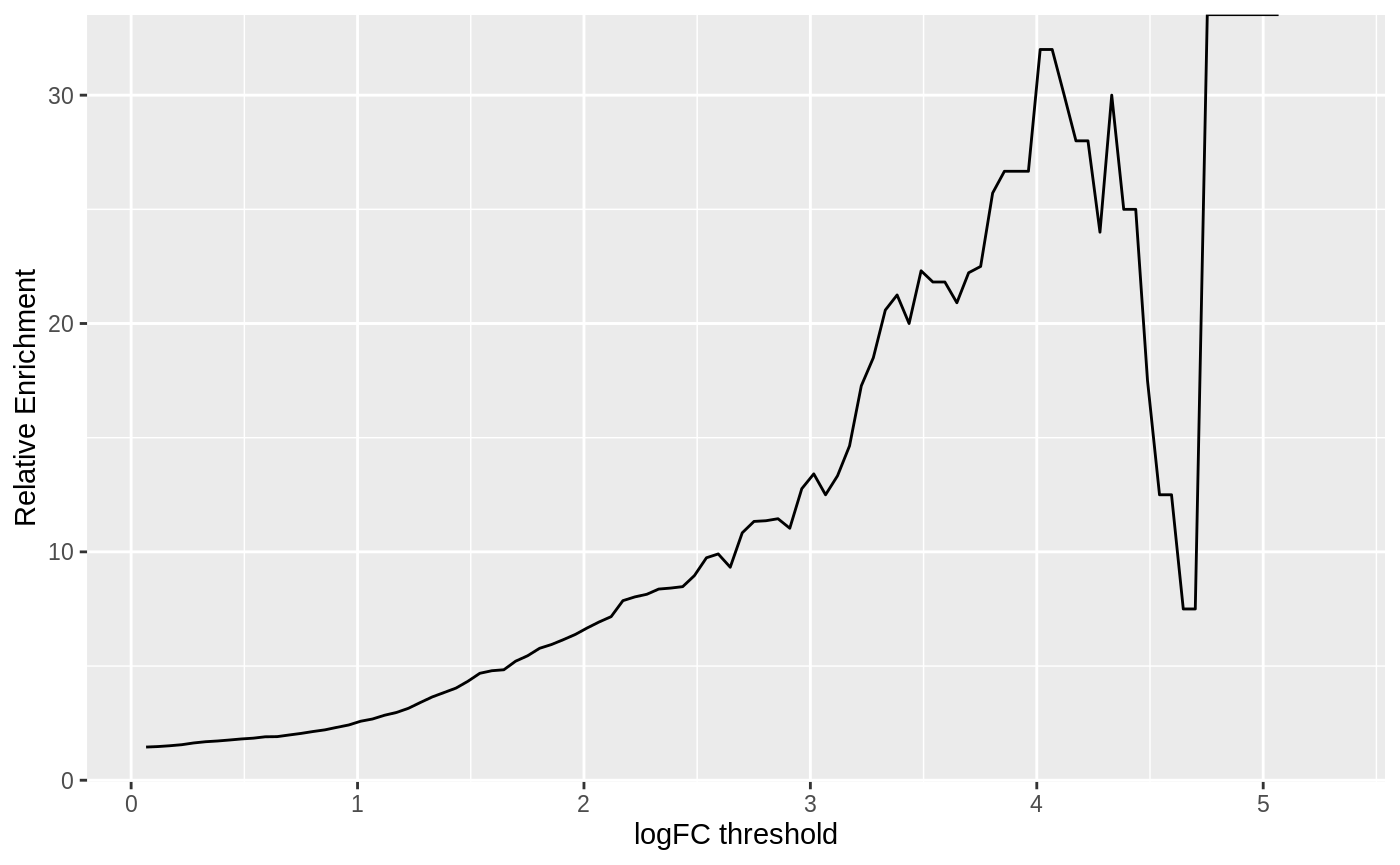
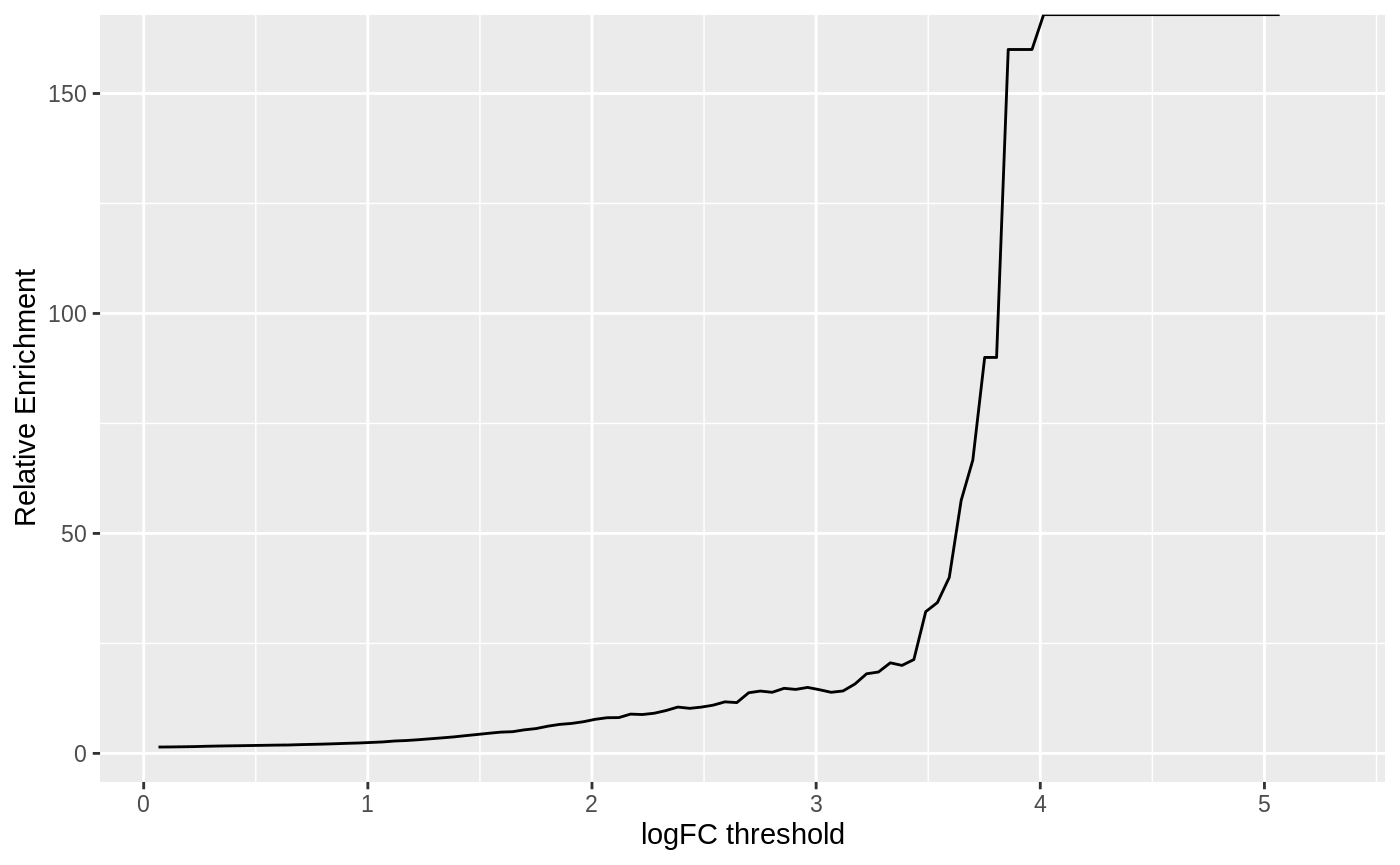
Built site for fluentGenomics: 0.0.1@a639b99

diff --git a/articles/fluentGenomics.html b/articles/fluentGenomics.html
@@ -196,7 +196,7 @@ into R/Bioconductor, such that the genomic ranges are automatically attached to 
 use a figure -->
 <p>Because <code>tximeta</code> knows the correct reference transcriptome, we can ask <code>tximeta</code> to summarize the transcript-level data to the gene level using the methods of <span class="citation">Soneson, Love, and Robinson (2015)</span>.</p>
 <div class="sourceCode" id="cb20"><pre class="sourceCode r"><code class="sourceCode r"><a class="sourceLine" id="cb20-1" data-line-number="1">gse &lt;-<span class="st"> </span><span class="kw">summarizeToGene</span>(se)</a></code></pre></div>
-<pre><code>## loading existing TxDb created: 2019-12-04 04:46:03</code></pre>
+<pre><code>## loading existing TxDb created: 2019-12-04 05:40:52</code></pre>
 <pre><code>## Loading required package: GenomicFeatures</code></pre>
 <pre><code>## Loading required package: AnnotationDbi</code></pre>
 <pre><code>## 
@@ -440,30 +440,30 @@ use a figure -->
 <pre><code>## GRanges object with 749 ranges and 3 metadata columns:
 ##         seqnames              ranges strand |            gene_id
 ##            &lt;Rle&gt;           &lt;IRanges&gt;  &lt;Rle&gt; |        &lt;character&gt;
-##     [1]    chr14   50052857-50053569      + |  ENSG00000243038.1
-##     [2]     chr2   53532672-53787610      - | ENSG00000115239.21
-##     [3]    chr21   14818843-15014430      - |  ENSG00000235609.7
-##     [4]    chr19   35523367-35528351      - | ENSG00000189001.10
-##     [5]     chr6 118894220-118909167      + |  ENSG00000111875.7
+##     [1]    chr16   89088375-89164121      + | ENSG00000176715.16
+##     [2]    chr11   86283927-86284668      + |  ENSG00000254783.1
+##     [3]     chr6   31727038-31730617      - |  ENSG00000213722.8
+##     [4]     chrX   37571569-37684463      + | ENSG00000147036.11
+##     [5]     chr8   28767661-28890242      - | ENSG00000104299.14
 ##     ...      ...                 ...    ... .                ...
-##   [745]    chr19   43596392-43601157      + | ENSG00000124444.15
-##   [746]     chr4 102418602-102450010      - |  ENSG00000248161.5
-##   [747]    chr10   14838160-14847018      + |  ENSG00000284024.2
-##   [748]    chr13   79311824-79406477      - | ENSG00000139746.15
-##   [749]     chr5 157785743-157859175      - | ENSG00000113282.13
+##   [745]    chr19   42485076-42485714      - |  ENSG00000269374.1
+##   [746]     chr2   67397319-67412089      + |  ENSG00000143971.8
+##   [747]     chr5 112976702-113020970      + | ENSG00000172795.15
+##   [748]    chr19   34733298-34733837      - |  ENSG00000274104.1
+##   [749]    chr20     1888128-1894374      - |  ENSG00000276649.1
 ##                   de_log2FC           de_padj
 ##                   &lt;numeric&gt;         &lt;numeric&gt;
-##     [1]  -0.632774880753761 0.521975564684806
-##     [2]  -0.109609539126582 0.631102135021299
-##     [3]  0.0134619385559843 0.961676443773232
-##     [4]   0.216056507711512 0.899561389140532
-##     [5] -0.0836501084428537 0.727823630402494
+##     [1]  0.0883185688056134 0.677817325036758
+##     [2]  -0.278999094033877 0.447388026154912
+##     [3]   0.103078047575482 0.715157647224577
+##     [4]    0.70789046813369 0.220161260800496
+##     [5]  -0.108073100475036  0.50065085259782
 ##     ...                 ...               ...
-##   [745]   0.112212448398344 0.656033947986787
-##   [746]   -1.01536218932665 0.217067983557905
-##   [747]  -0.159042927714654 0.454882627136078
-##   [748] -0.0177710974533084 0.899135719717928
-##   [749]  -0.174462240195644 0.317691044686094
+##   [745]   0.277732027627693 0.430776782760329
+##   [746]  -0.110627350026637 0.531931894373728
+##   [747] -0.0573027373516692 0.860974061475304
+##   [748]   0.472112695712188  0.46099083697002
+##   [749] 0.00522089003416244 0.991571521790647
 ##   -------
 ##   seqinfo: 25 sequences (1 circular) from an unspecified genome; no seqlengths</code></pre>
 <p>We can scale this up to create many samples via replicate:</p>
@@ -490,24 +490,24 @@ use a figure -->
 ##      [4]     chr7 150800403-150805120      + |  ENSG00000002933.8
 ##      [5]     chr4   15778275-15853230      + | ENSG00000004468.12
 ##      ...      ...                 ...    ... .                ...
-##   [8235]     chr9 124517275-124771310      - | ENSG00000148200.16
-##   [8236]    chr11 108665025-108940930      + | ENSG00000178105.10
-##   [8237]    chr11     4482646-4493497      + |  ENSG00000196778.3
-##   [8238]     chr7   30010587-30026684      - | ENSG00000106080.10
-##   [8239]    chr22   30576625-30607083      - | ENSG00000100029.17
-##                   de_log2FC              de_padj  resample   origin
-##                   &lt;numeric&gt;            &lt;numeric&gt; &lt;integer&gt; &lt;factor&gt;
-##      [1]   4.98711071929753 1.37057047788478e-13         0       de
-##      [2]   1.92721595380928  3.1747750713955e-05         0       de
-##      [3]    2.9337250105913 2.01310386948312e-11         0       de
-##      [4]   3.16721751137947 1.07359905687254e-08         0       de
-##      [5]   5.40894352968123 4.82904681779634e-18         0       de
-##      ...                ...                  ...       ...      ...
-##   [8235]  0.203655097445471    0.636863126522804        10   not_de
-##   [8236]  0.176356554905285    0.732636255238048        10   not_de
-##   [8237] -0.167709592678972    0.777871602890909        10   not_de
-##   [8238] -0.221471376097723    0.540008070198926        10   not_de
-##   [8239] 0.0754440554121932    0.816976317740198        10   not_de
+##   [8235]    chr16   55760566-55793960      + | ENSG00000228695.10
+##   [8236]     chr9 137007227-137028922      - | ENSG00000107331.16
+##   [8237]     chr9   35056064-35073249      - | ENSG00000165280.15
+##   [8238]    chr12   71663009-71680639      + |  ENSG00000173451.6
+##   [8239]    chr16     4346694-4348648      - |  ENSG00000280063.1
+##                    de_log2FC              de_padj  resample   origin
+##                    &lt;numeric&gt;            &lt;numeric&gt; &lt;integer&gt; &lt;factor&gt;
+##      [1]    4.98711071929753 1.37057047788478e-13         0       de
+##      [2]    1.92721595380928  3.1747750713955e-05         0       de
+##      [3]     2.9337250105913 2.01310386948312e-11         0       de
+##      [4]    3.16721751137947 1.07359905687254e-08         0       de
+##      [5]    5.40894352968123 4.82904681779634e-18         0       de
+##      ...                 ...                  ...       ...      ...
+##   [8235]   0.638702353140594    0.508402790416387        10   not_de
+##   [8236]   -0.15423728143851     0.72188384440227        10   not_de
+##   [8237] -0.0235305688770099    0.875814429612516        10   not_de
+##   [8238]   0.268789749902426    0.508130509835158        10   not_de
+##   [8239]  -0.177111977597586    0.728844923289341        10   not_de
 ##   -------
 ##   seqinfo: 25 sequences (1 circular) from an unspecified genome; no seqlengths</code></pre>
 <p>Now we would like to modify our gene ranges so their width is 10 kilobases on either side of their transcription start site (TSS). There are many ways one could do this but we prefer an approach via the anchoring methods in <em>plyranges</em>. Because there is a mutual dependence between the start, end, width and strand of a <em>GRanges</em> object, we define anchors to fix one of start and end, while modifying the width. As an example to extract just the TSS, we can anchor by the 5’ end of the range and modify the width of the range to equal 1.</p>
@@ -524,7 +524,7 @@ use a figure -->
 <div class="sourceCode" id="cb70"><pre class="sourceCode r"><code class="sourceCode r"><a class="sourceLine" id="cb70-1" data-line-number="1">overlap_genes &lt;-<span class="st"> </span>all_genes <span class="op">%&gt;%</span></a>
 <a class="sourceLine" id="cb70-2" data-line-number="2"><span class="st">  </span><span class="kw"><a href="https://rdrr.io/pkg/plyranges/man/overlap-joins.html">join_overlap_left</a></span>(da_peaks)</a>
 <a class="sourceLine" id="cb70-3" data-line-number="3">overlap_genes</a></code></pre></div>
-<pre><code>## GRanges object with 27490 ranges and 8 metadata columns:
+<pre><code>## GRanges object with 27633 ranges and 8 metadata columns:
 ##           seqnames              ranges strand |            gene_id
 ##              &lt;Rle&gt;           &lt;IRanges&gt;  &lt;Rle&gt; |        &lt;character&gt;
 ##       [1]     chr1 196641878-196661877      + | ENSG00000000971.15
@@ -533,24 +533,24 @@ use a figure -->
 ##       [4]     chr4   17567192-17587191      + | ENSG00000002549.12
 ##       [5]     chr4   17567192-17587191      + | ENSG00000002549.12
 ##       ...      ...                 ...    ... .                ...
-##   [27486]     chr7   30016684-30036683      - | ENSG00000106080.10
-##   [27487]     chr7   30016684-30036683      - | ENSG00000106080.10
-##   [27488]    chr22   30597083-30617082      - | ENSG00000100029.17
-##   [27489]    chr22   30597083-30617082      - | ENSG00000100029.17
-##   [27490]    chr22   30597083-30617082      - | ENSG00000100029.17
-##                    de_log2FC              de_padj  resample   origin
-##                    &lt;numeric&gt;            &lt;numeric&gt; &lt;integer&gt; &lt;factor&gt;
-##       [1]   4.98711071929753 1.37057047788478e-13         0       de
-##       [2]   1.92721595380928  3.1747750713955e-05         0       de
-##       [3]    2.9337250105913 2.01310386948312e-11         0       de
-##       [4]    2.9337250105913 2.01310386948312e-11         0       de
-##       [5]    2.9337250105913 2.01310386948312e-11         0       de
-##       ...                ...                  ...       ...      ...
-##   [27486] -0.221471376097723    0.540008070198926        10   not_de
-##   [27487] -0.221471376097723    0.540008070198926        10   not_de
-##   [27488] 0.0754440554121932    0.816976317740198        10   not_de
-##   [27489] 0.0754440554121932    0.816976317740198        10   not_de
-##   [27490] 0.0754440554121932    0.816976317740198        10   not_de
+##   [27629]     chr9   35063249-35083248      - | ENSG00000165280.15
+##   [27630]     chr9   35063249-35083248      - | ENSG00000165280.15
+##   [27631]    chr12   71653009-71673008      + |  ENSG00000173451.6
+##   [27632]    chr16     4338648-4358647      - |  ENSG00000280063.1
+##   [27633]    chr16     4338648-4358647      - |  ENSG00000280063.1
+##                     de_log2FC              de_padj  resample   origin
+##                     &lt;numeric&gt;            &lt;numeric&gt; &lt;integer&gt; &lt;factor&gt;
+##       [1]    4.98711071929753 1.37057047788478e-13         0       de
+##       [2]    1.92721595380928  3.1747750713955e-05         0       de
+##       [3]     2.9337250105913 2.01310386948312e-11         0       de
+##       [4]     2.9337250105913 2.01310386948312e-11         0       de
+##       [5]     2.9337250105913 2.01310386948312e-11         0       de
+##       ...                 ...                  ...       ...      ...
+##   [27629] -0.0235305688770099    0.875814429612516        10   not_de
+##   [27630] -0.0235305688770099    0.875814429612516        10   not_de
+##   [27631]   0.268789749902426    0.508130509835158        10   not_de
+##   [27632]  -0.177111977597586    0.728844923289341        10   not_de
+##   [27633]  -0.177111977597586    0.728844923289341        10   not_de
 ##                    peak_id          da_log2FC              da_padj
 ##                &lt;character&gt;          &lt;numeric&gt;            &lt;numeric&gt;
 ##       [1]  ATAC_peak_21236 -0.546582189082724 0.000115273676444232
@@ -559,11 +559,11 @@ use a figure -->
 ##       [4] ATAC_peak_193579 -0.281615137872819 7.99888515457195e-05
 ##       [5] ATAC_peak_193580  0.673705317951604 7.60042918890061e-15
 ##       ...              ...                ...                  ...
-##   [27486] ATAC_peak_246240  0.199453348339899   0.0010107103087861
-##   [27487] ATAC_peak_246244 -0.334370962296005  0.00603463380372217
-##   [27488] ATAC_peak_168647  0.700254164321891 2.44508432270003e-30
-##   [27489] ATAC_peak_168648   1.02287281935847 1.76720208303768e-30
-##   [27490] ATAC_peak_168649 -0.656303404614519  3.5269225221126e-12
+##   [27629] ATAC_peak_276402 -0.477548958919527 9.33639645508677e-07
+##   [27630] ATAC_peak_276403  0.119519949352842 0.000253900868283711
+##   [27631]             &lt;NA&gt;               &lt;NA&gt;                 &lt;NA&gt;
+##   [27632]  ATAC_peak_97466  -1.06568458075408 1.07944941285314e-08
+##   [27633]  ATAC_peak_97469  0.100885846933033  0.00400767112562884
 ##   -------
 ##   seqinfo: 25 sequences (1 circular) from an unspecified genome; no seqlengths</code></pre>
 <p>Now we can ask, how many DA peaks are near DE genes relative to “other” non-DE genes? A gene may appear more than once, since multiple peaks may overlap a single gene or because we have re-sampled the same gene more than once.</p>
@@ -593,14 +593,14 @@ use a figure -->
 ##     origin       any      lfc1      lfc2
 ##   &lt;factor&gt; &lt;numeric&gt; &lt;numeric&gt; &lt;numeric&gt;
 ## 1       de      3416      1097       234
-## 2   not_de    2351.9     427.2      35.3</code></pre>
+## 2   not_de    2367.7     440.7      30.6</code></pre>
 <p>We can see that the enrichment increases for larger LFC threshold:</p>
 <div class="sourceCode" id="cb76"><pre class="sourceCode r"><code class="sourceCode r"><a class="sourceLine" id="cb76-1" data-line-number="1">overlap_tab <span class="op">%&gt;%</span><span class="st"> </span></a>
 <a class="sourceLine" id="cb76-2" data-line-number="2"><span class="st">  </span><span class="kw"><a href="https://rdrr.io/r/base/as.data.frame.html">as.data.frame</a></span>() <span class="op">%&gt;%</span><span class="st"> </span></a>
 <a class="sourceLine" id="cb76-3" data-line-number="3"><span class="st">  </span><span class="kw"><a href="https://rdrr.io/pkg/plyranges/man/tidyverse-reexports.html">select</a></span>(<span class="op">-</span>origin) <span class="op">%&gt;%</span><span class="st"> </span></a>
 <a class="sourceLine" id="cb76-4" data-line-number="4"><span class="st">  </span><span class="kw"><a href="https://dplyr.tidyverse.org/reference/summarise_all.html">summarise_all</a></span>(<span class="dt">.funs =</span> <span class="op">~</span><span class="kw"><a href="https://rdrr.io/r/base/funprog.html">Reduce</a></span>(<span class="st">"/"</span>, .))</a></code></pre></div>
-<pre><code>##        any     lfc1     lfc2
-## 1 1.452443 2.567884 6.628895</code></pre>
+<pre><code>##       any     lfc1     lfc2
+## 1 1.44275 2.489222 7.647059</code></pre>
 <p>To do this for many thresholds is cumbersome and would create a lot of duplicate code, instead we can construct a grid of 100 thresholds, using the range logFC values in the <code>da_peaks</code> <em>GRanges</em> object:</p>
 <div class="sourceCode" id="cb78"><pre class="sourceCode r"><code class="sourceCode r"><a class="sourceLine" id="cb78-1" data-line-number="1">thresholds &lt;-<span class="st"> </span>da_peaks <span class="op">%&gt;%</span><span class="st"> </span></a>
 <a class="sourceLine" id="cb78-2" data-line-number="2"><span class="st">  </span><span class="kw"><a href="https://rdrr.io/pkg/plyranges/man/tidyverse-reexports.html">summarise</a></span>(</a>
@@ -628,11 +628,11 @@ use a figure -->
 ##     origin  resample lfc_0.066 lfc_0.118 lfc_0.171 lfc_0.224
 ##   &lt;factor&gt; &lt;integer&gt; &lt;integer&gt; &lt;integer&gt; &lt;integer&gt; &lt;integer&gt;
 ## 1       de         0      3416      3392      3304      3159
-## 2   not_de         1      2305      2245      2131      1974
-## 3   not_de         2      2408      2341      2221      2043
-## 4   not_de         3      2329      2279      2150      1986
-## 5   not_de         4      2340      2303      2166      2025
-## 6   not_de         5      2403      2353      2241      2065</code></pre>
+## 2   not_de         1      2440      2380      2275      2132
+## 3   not_de         2      2367      2308      2208      2039
+## 4   not_de         3      2385      2337      2218      2049
+## 5   not_de         4      2214      2172      2064      1903
+## 6   not_de         5      2393      2343      2235      2086</code></pre>
 <p>Next we can modify the data frame so it is in long form via the <em>tidy</em> package,and average over the re-samples for each threshold. Once again the results from <em>plyranges</em> can be integrated fairly seamlessly with the <em>tidyverse</em> suite of packages:</p>
 <div class="sourceCode" id="cb82"><pre class="sourceCode r"><code class="sourceCode r"><a class="sourceLine" id="cb82-1" data-line-number="1"><span class="kw"><a href="https://rdrr.io/r/base/library.html">library</a></span>(tidyr)</a></code></pre></div>
 <pre><code>## 
